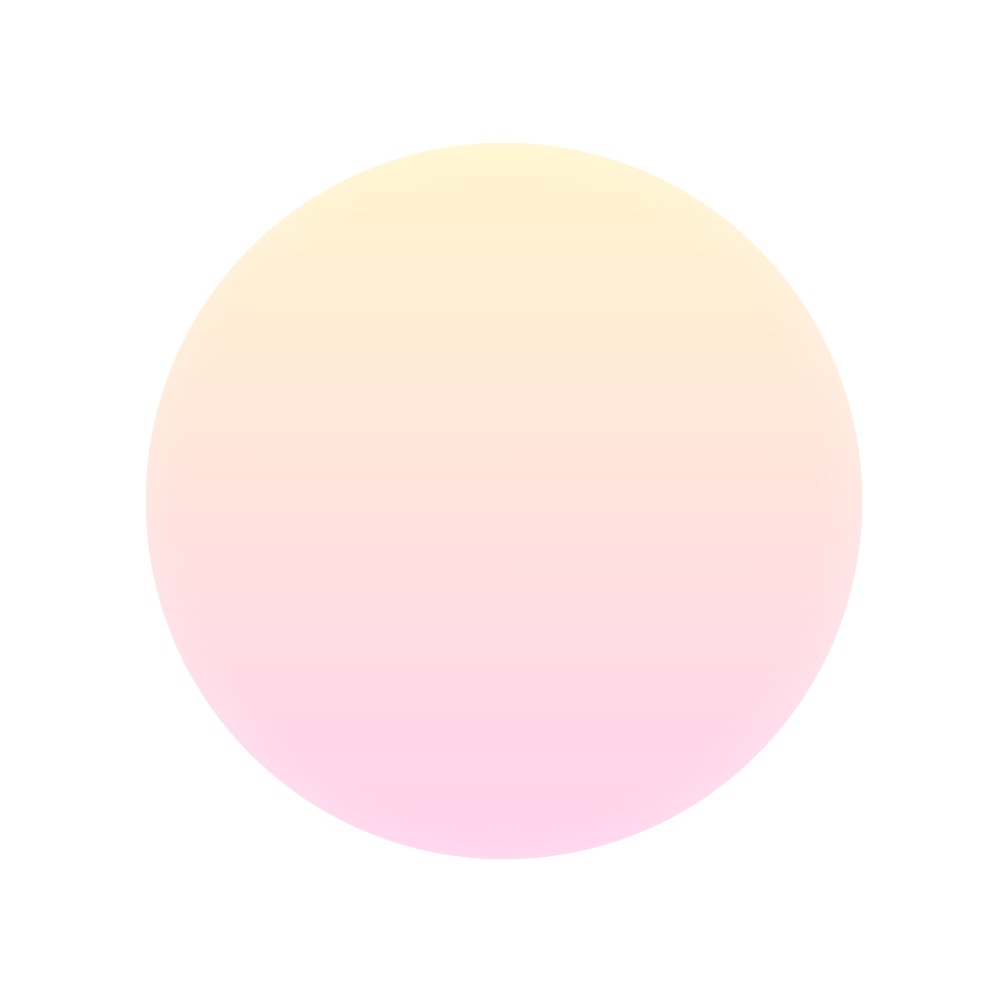
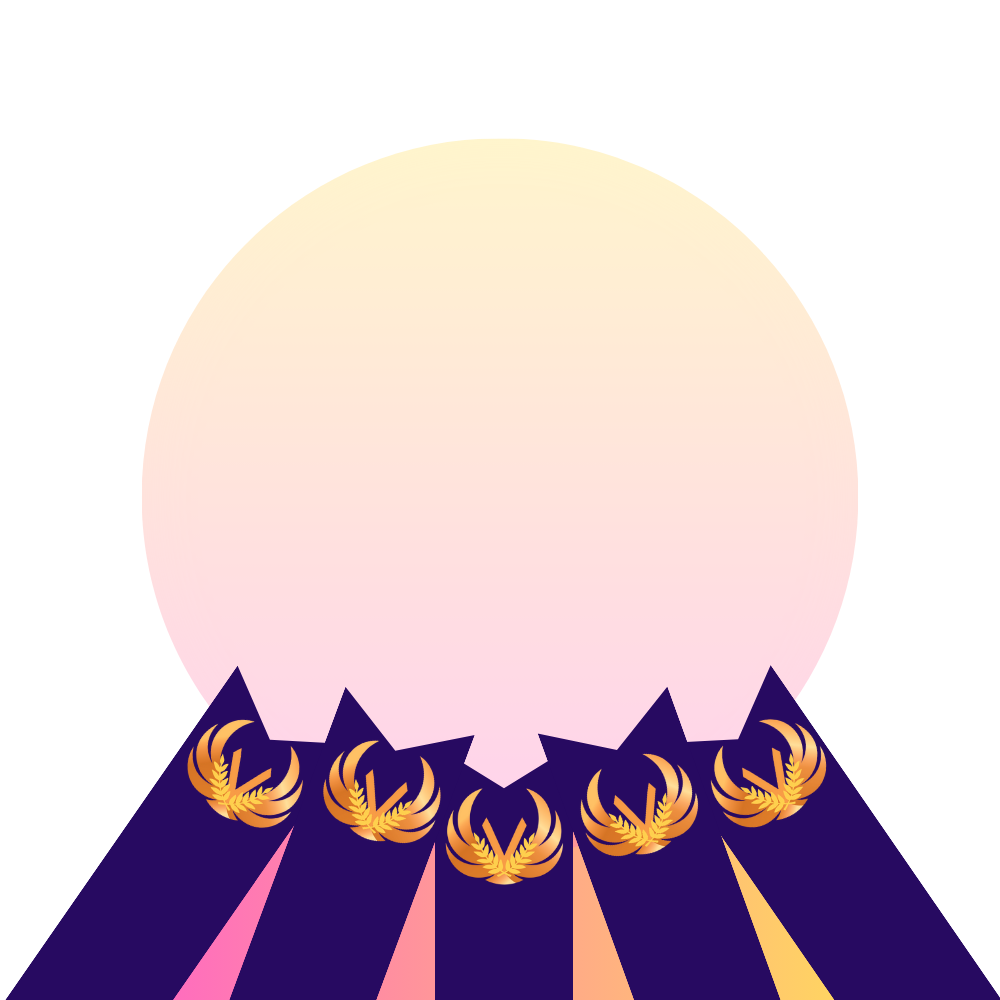
style updates

diff --git a/lib/screens/astro_data_screen.dart b/lib/screens/astro_data_screen.dart
@@ -77,24 +77,14 @@ class _AstroDataScreenState extends State<AstroDataScreen> {
   @override
   Widget build(BuildContext context) {
     return Scaffold(
-      appBar: AppBar(
-        title: const Text(
-          'Oracle of Delphi',
-        style: TextStyle(
-          fontFamily: 'EBGaramond', // Replace with the actual font family defined in your pubspec.yaml
-        ),
-        ),
-      ),
       body: Center(
         child: Column(
           mainAxisAlignment: MainAxisAlignment.center,
           children: [
-            const SizedBox(height: 50),
             SizedBox(
-              width: 200,
+              width: 140,
               child: MoonPhaseWidget(moonPhase: _currentMoonPhase), // Dynamic moon phase,
             ),
-            const SizedBox(height: 20),
             Html(data: _moonPhaseHtml),
             Text(
               _response,

diff --git a/lib/main.dart b/lib/main.dart
@@ -41,14 +41,6 @@ class AstroDataScreenWithOverlay extends StatelessWidget {
             ),
           ),
           // Positioned widget to place your logo at the bottom right
-          Positioned(
-            bottom: 16, // adjust margin as needed
-            right: 16,  // adjust margin as needed
-            child: Image.asset(
-              'assets/images/logo_transparent.png',
-              width: 100, // adjust the size as needed
-            ),
-          ),
         ],
       ),
     );
